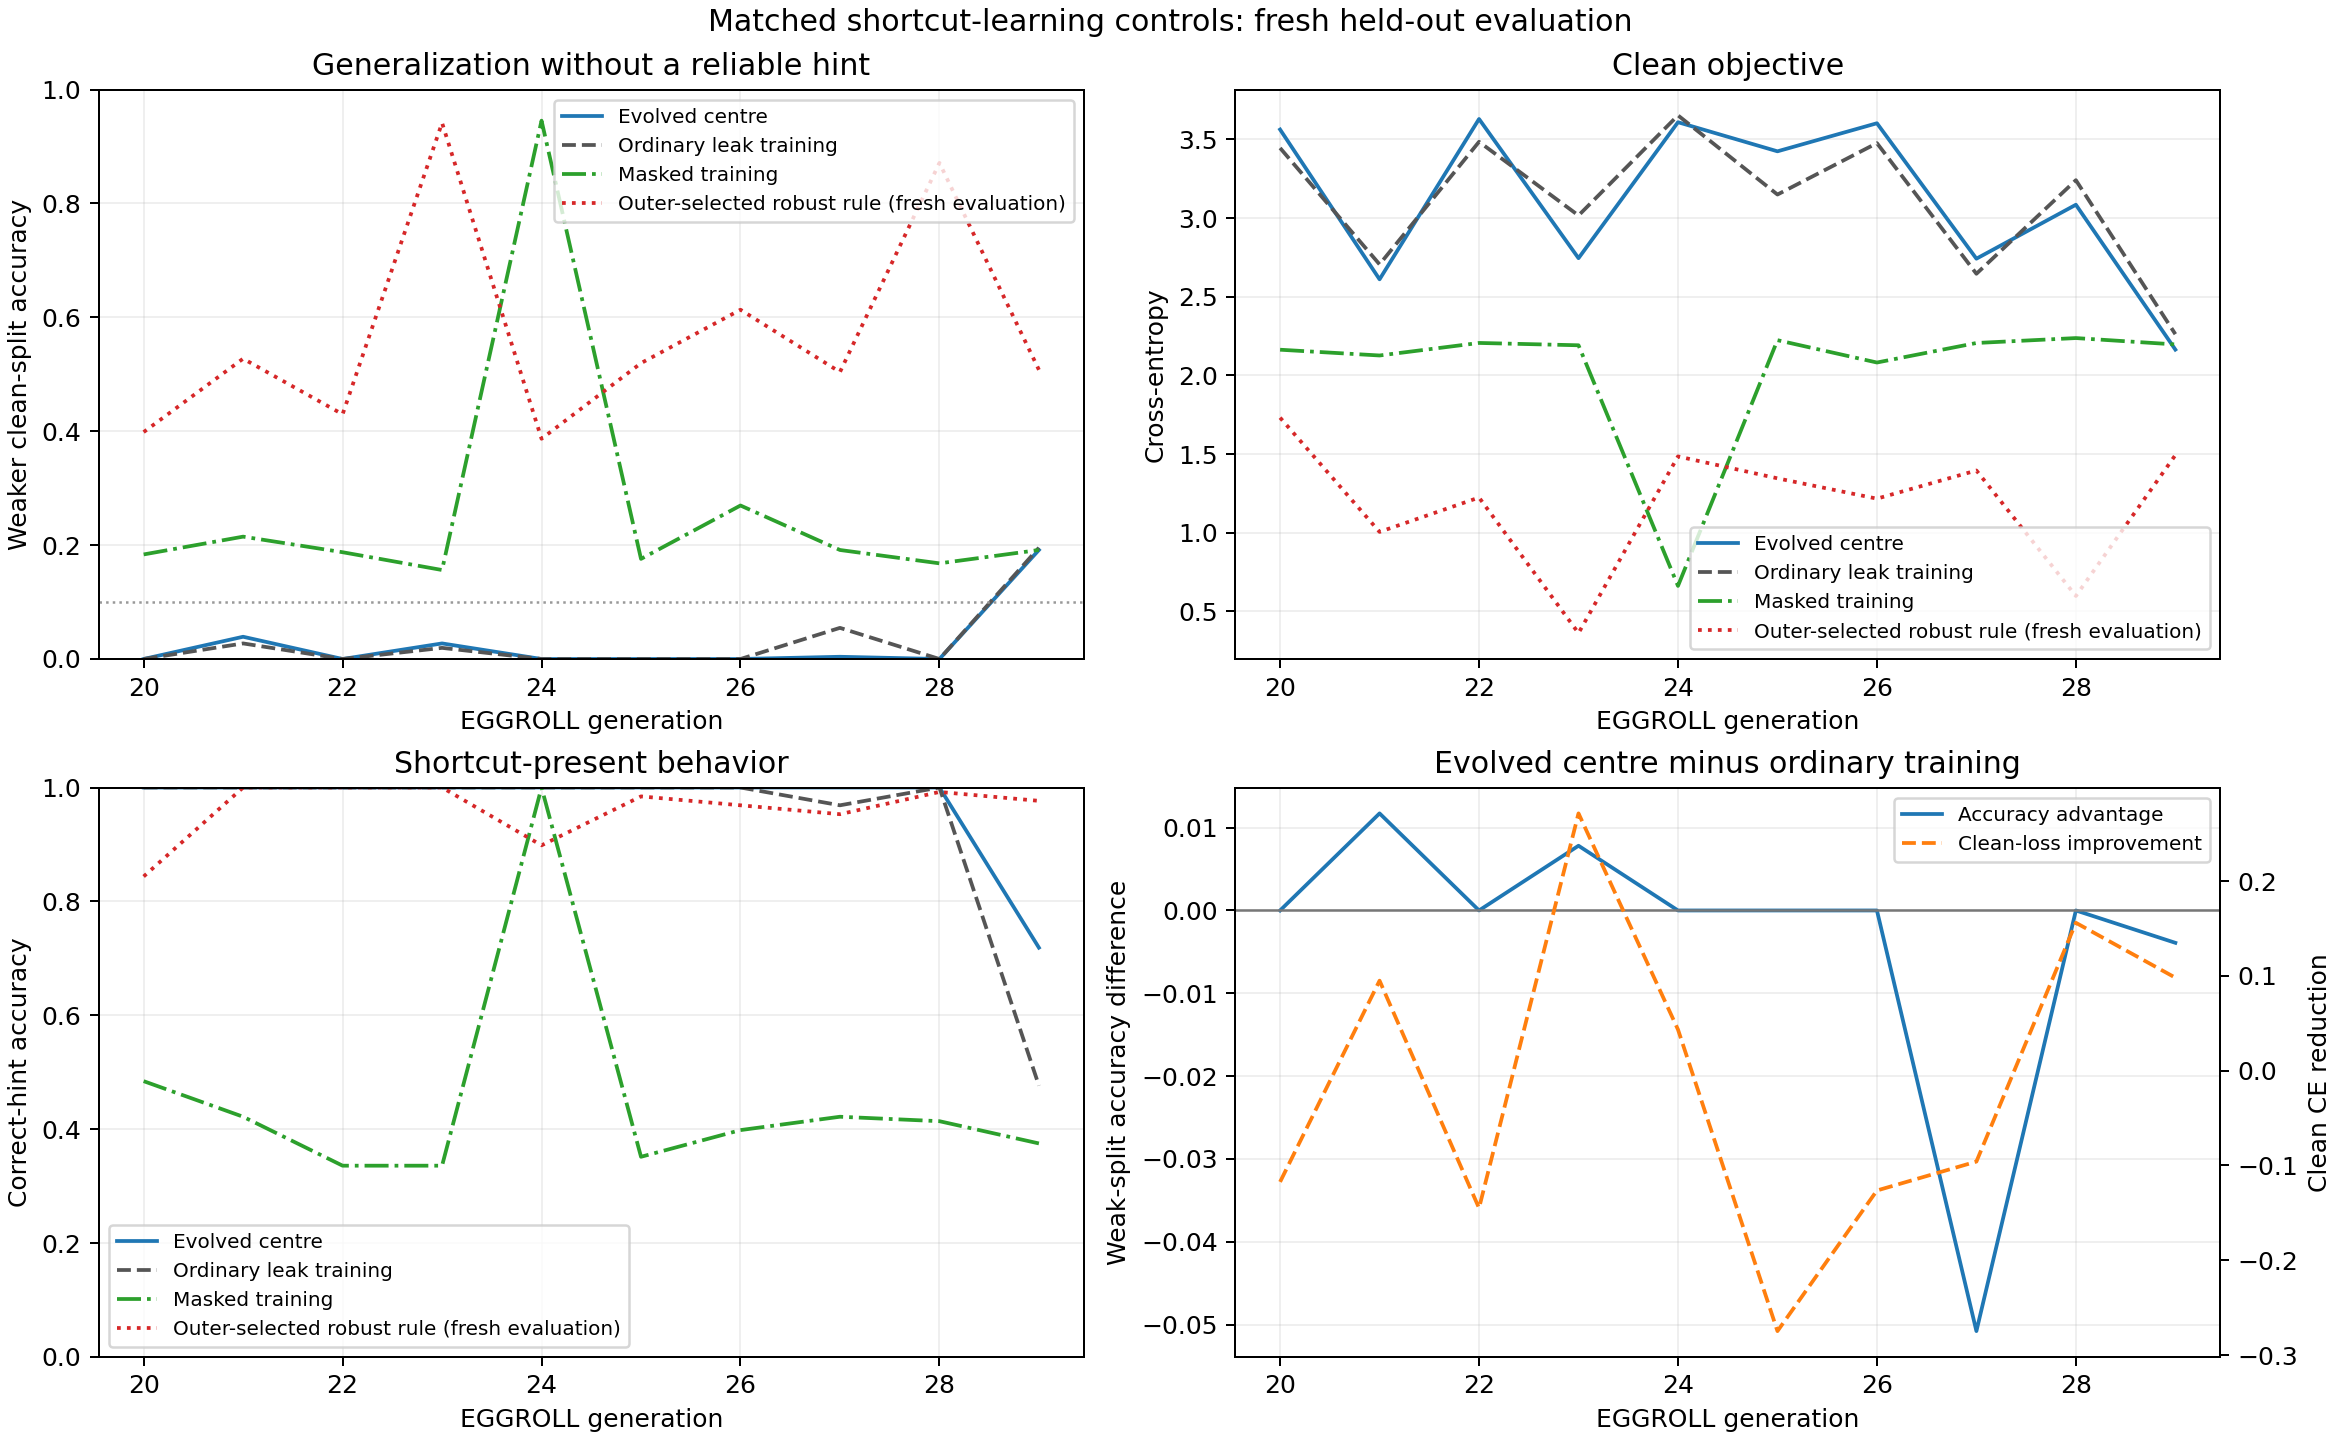
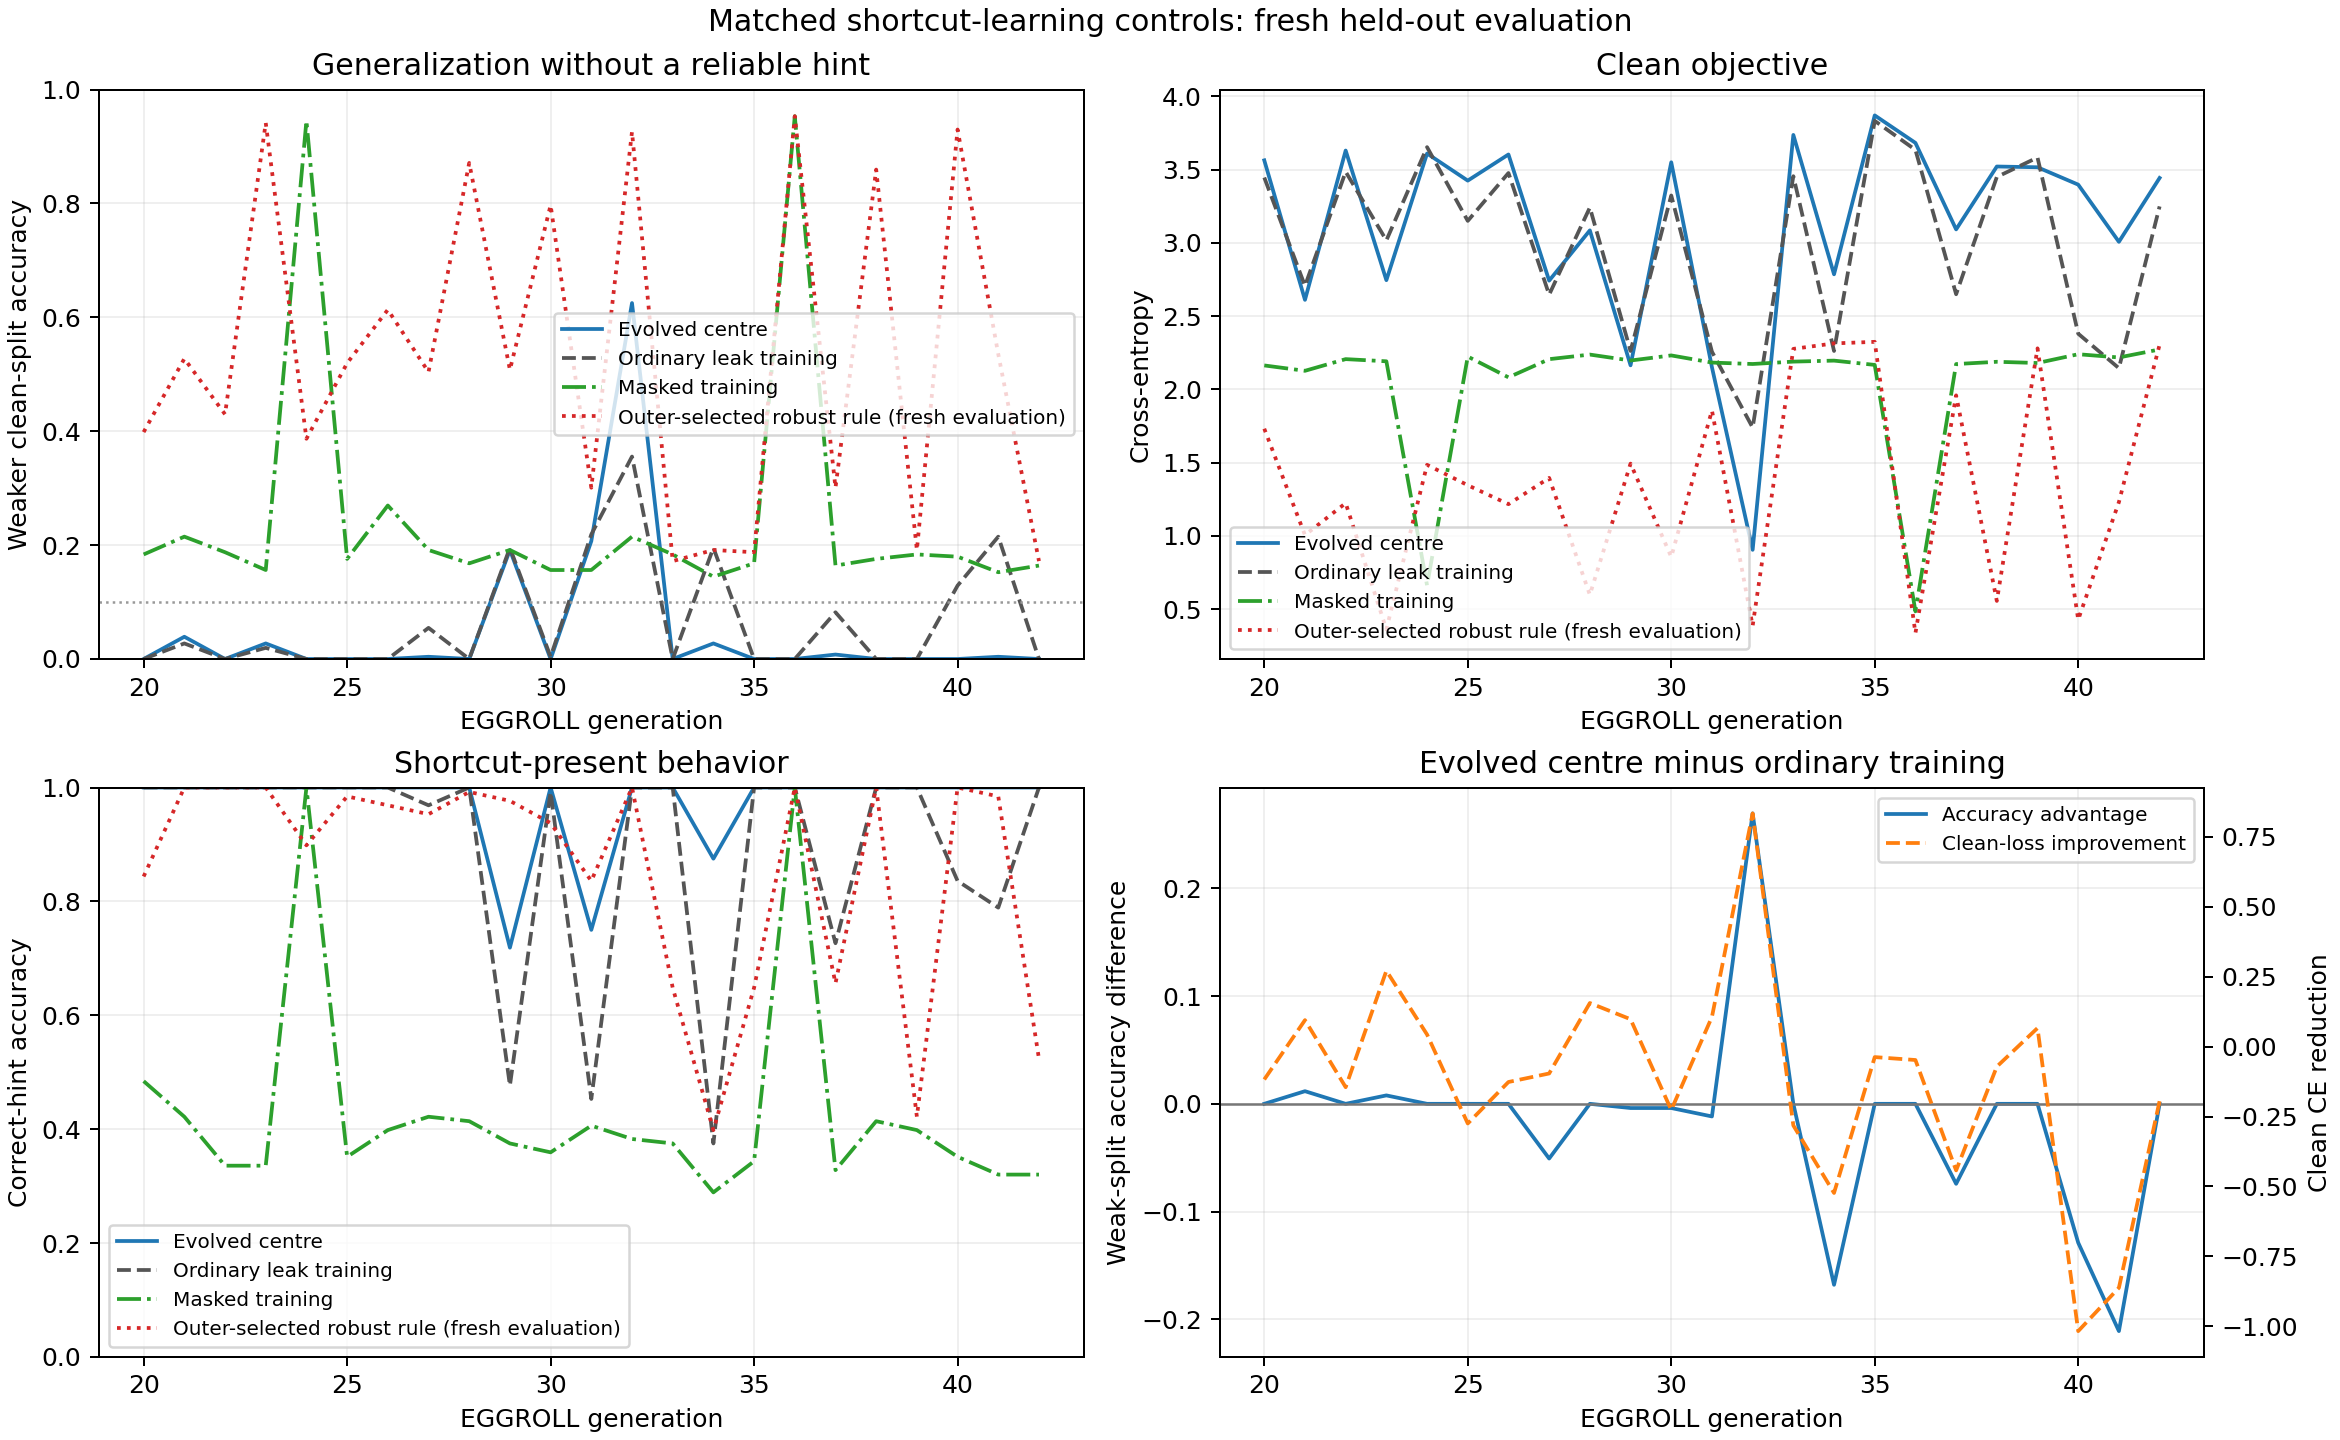
Audit randomized router at checkpoint 40

diff --git a/experiments/learned_backward_shortcuts/PROGRESS.md b/experiments/learned_backward_shortcuts/PROGRESS.md
@@ -1697,3 +1697,42 @@ Replication outputs:
 [`results/random_checkpoint30_replications.jsonl`](results/random_checkpoint30_replications.jsonl)
 and
 [`results/random_checkpoint30_replications_summary.json`](results/random_checkpoint30_replications_summary.json).
+
+Checkpoint 40 provides no evidence of a transition yet. Across live
+generations 30--39, the centre and ordinary rule average `8.67%` and `8.55%`
+fresh weaker-split accuracy, but the centre is worse by `0.062` clean CE and
+wins only one of ten accuracy comparisons. A new independent 20-replication
+audit is also negative:
+
+| Checkpoint-40 independent replication mean | Evolved centre | Ordinary training | Masked training |
+| --- | ---: | ---: | ---: |
+| Weaker-split accuracy | 1.80% | 5.57% | 24.77% |
+| Correct-hint accuracy | 96.99% | 95.31% | 43.52% |
+| Clean CE | 3.325 | 3.045 | 2.059 |
+
+On those seeds, the centre loses `3.77` percentage points and `0.280` CE
+relative to ordinary training. It wins `2/20` accuracy comparisons and `5/20`
+CE comparisons.
+
+For a direct trajectory comparison, checkpoint 40 was additionally evaluated
+on the exact 20 forward initializations and datasets used for checkpoint 30:
+
+| Same-seed centre checkpoint | Weaker-split accuracy | Correct-hint accuracy | Clean CE |
+| --- | ---: | ---: | ---: |
+| Generation 30 | 7.07% | 95.39% | 3.080 |
+| Generation 40 | 6.78% | 95.00% | 3.118 |
+
+The ten additional outer updates therefore did not improve the centre on a
+fixed evaluation distribution. Routing remains broad as well: the
+generation-40 hint gate is `0.377` versus `0.382` over all query sources, and
+all measured semantic roles remain within about `0.8%` of their
+position-matched controls. This still does not exclude a later phase change,
+but it establishes that generations 30--40 made the router more suppressive
+without making its learned credit assignment more useful.
+
+Checkpoint-40 outputs:
+[`results/random_checkpoint40_replications.jsonl`](results/random_checkpoint40_replications.jsonl),
+[`results/random_checkpoint40_replications_summary.json`](results/random_checkpoint40_replications_summary.json),
+[`results/random_checkpoint40_replications_matched30.jsonl`](results/random_checkpoint40_replications_matched30.jsonl),
+and
+[`results/random_checkpoint40_replications_matched30_summary.json`](results/random_checkpoint40_replications_matched30_summary.json).
